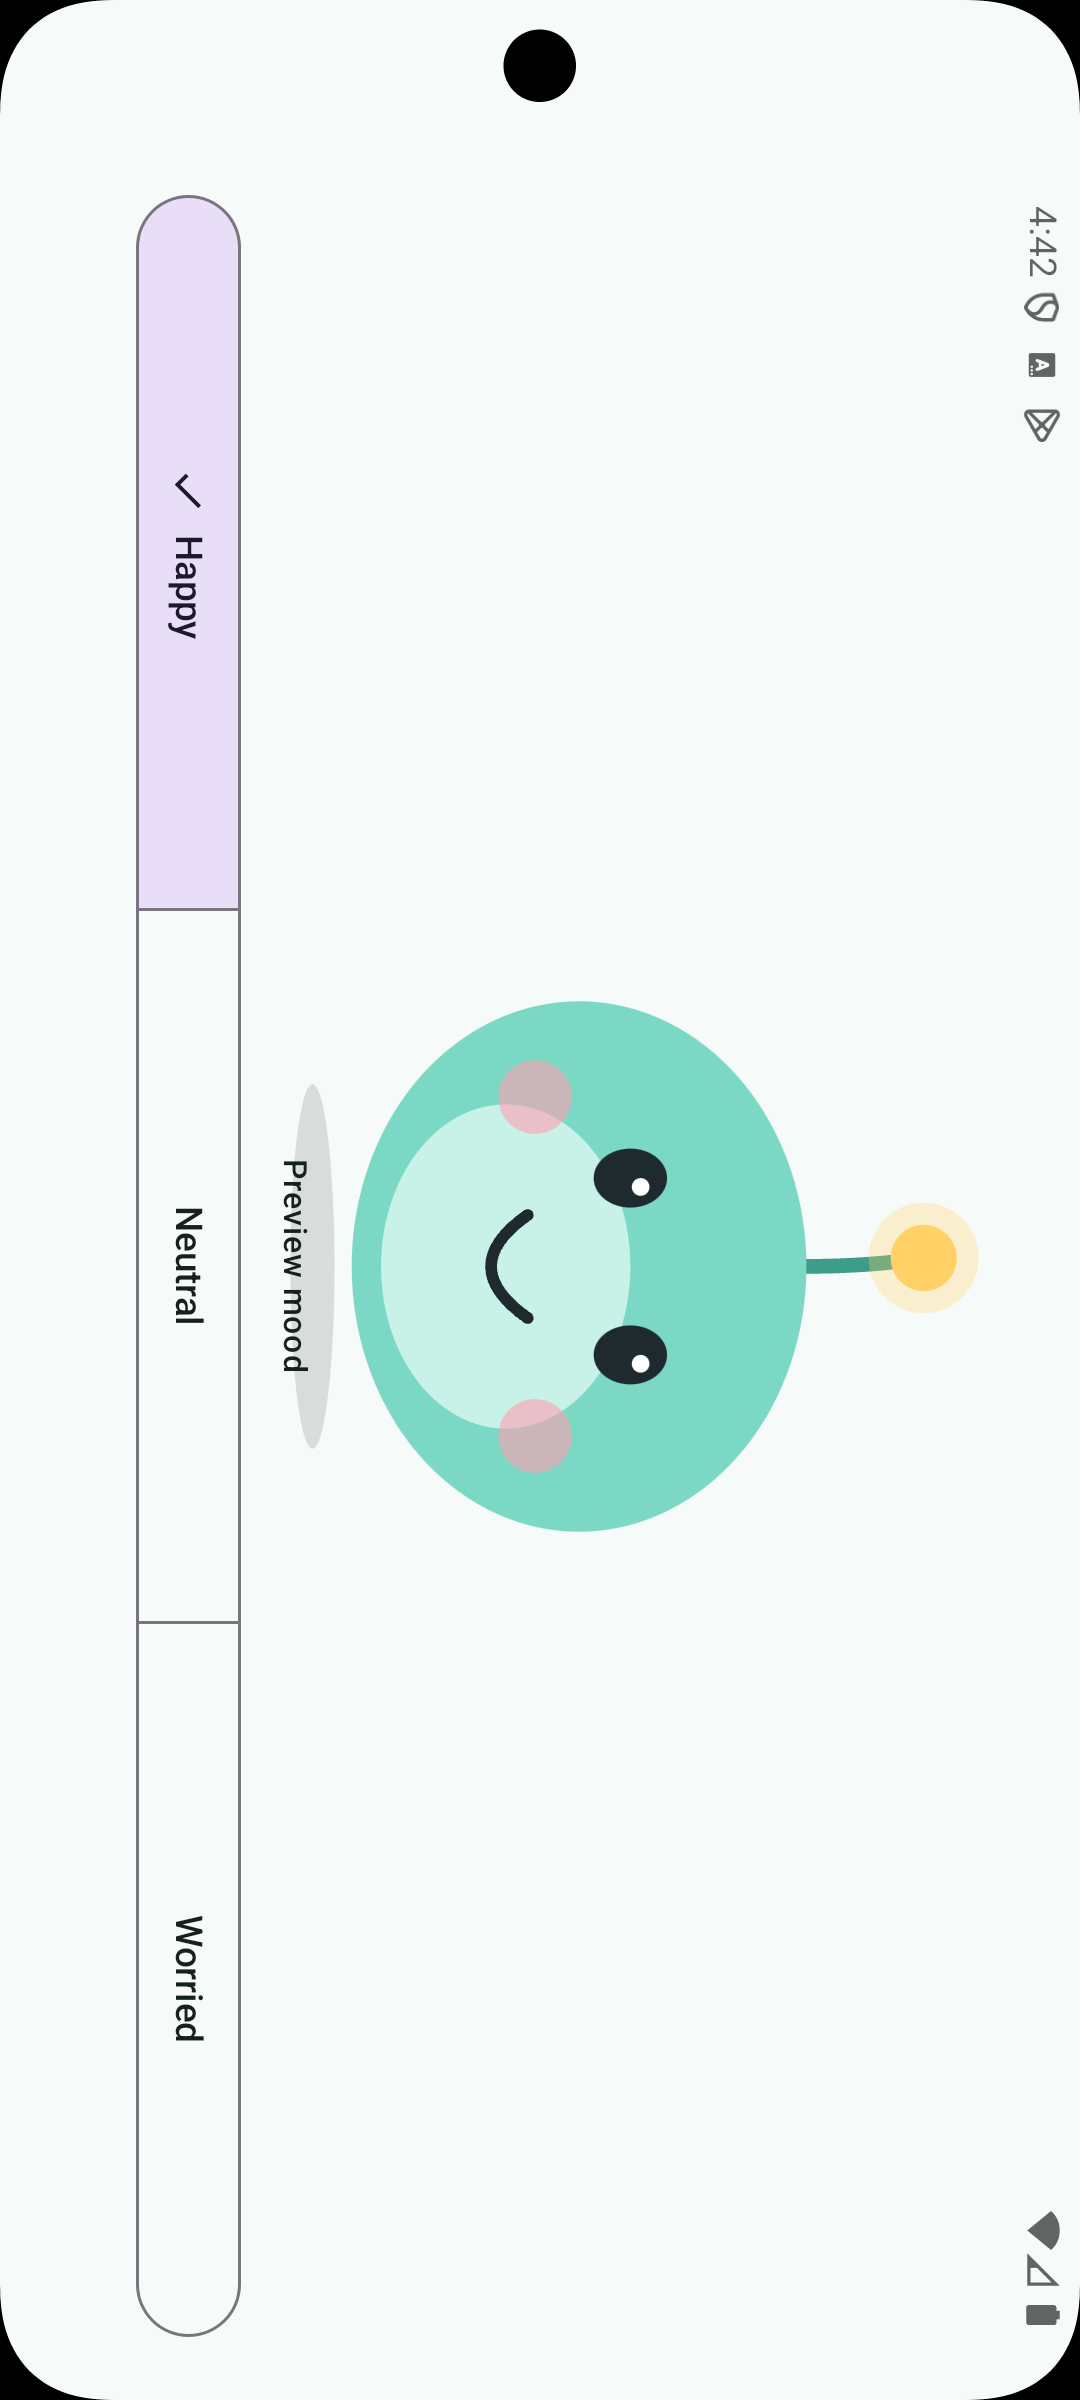
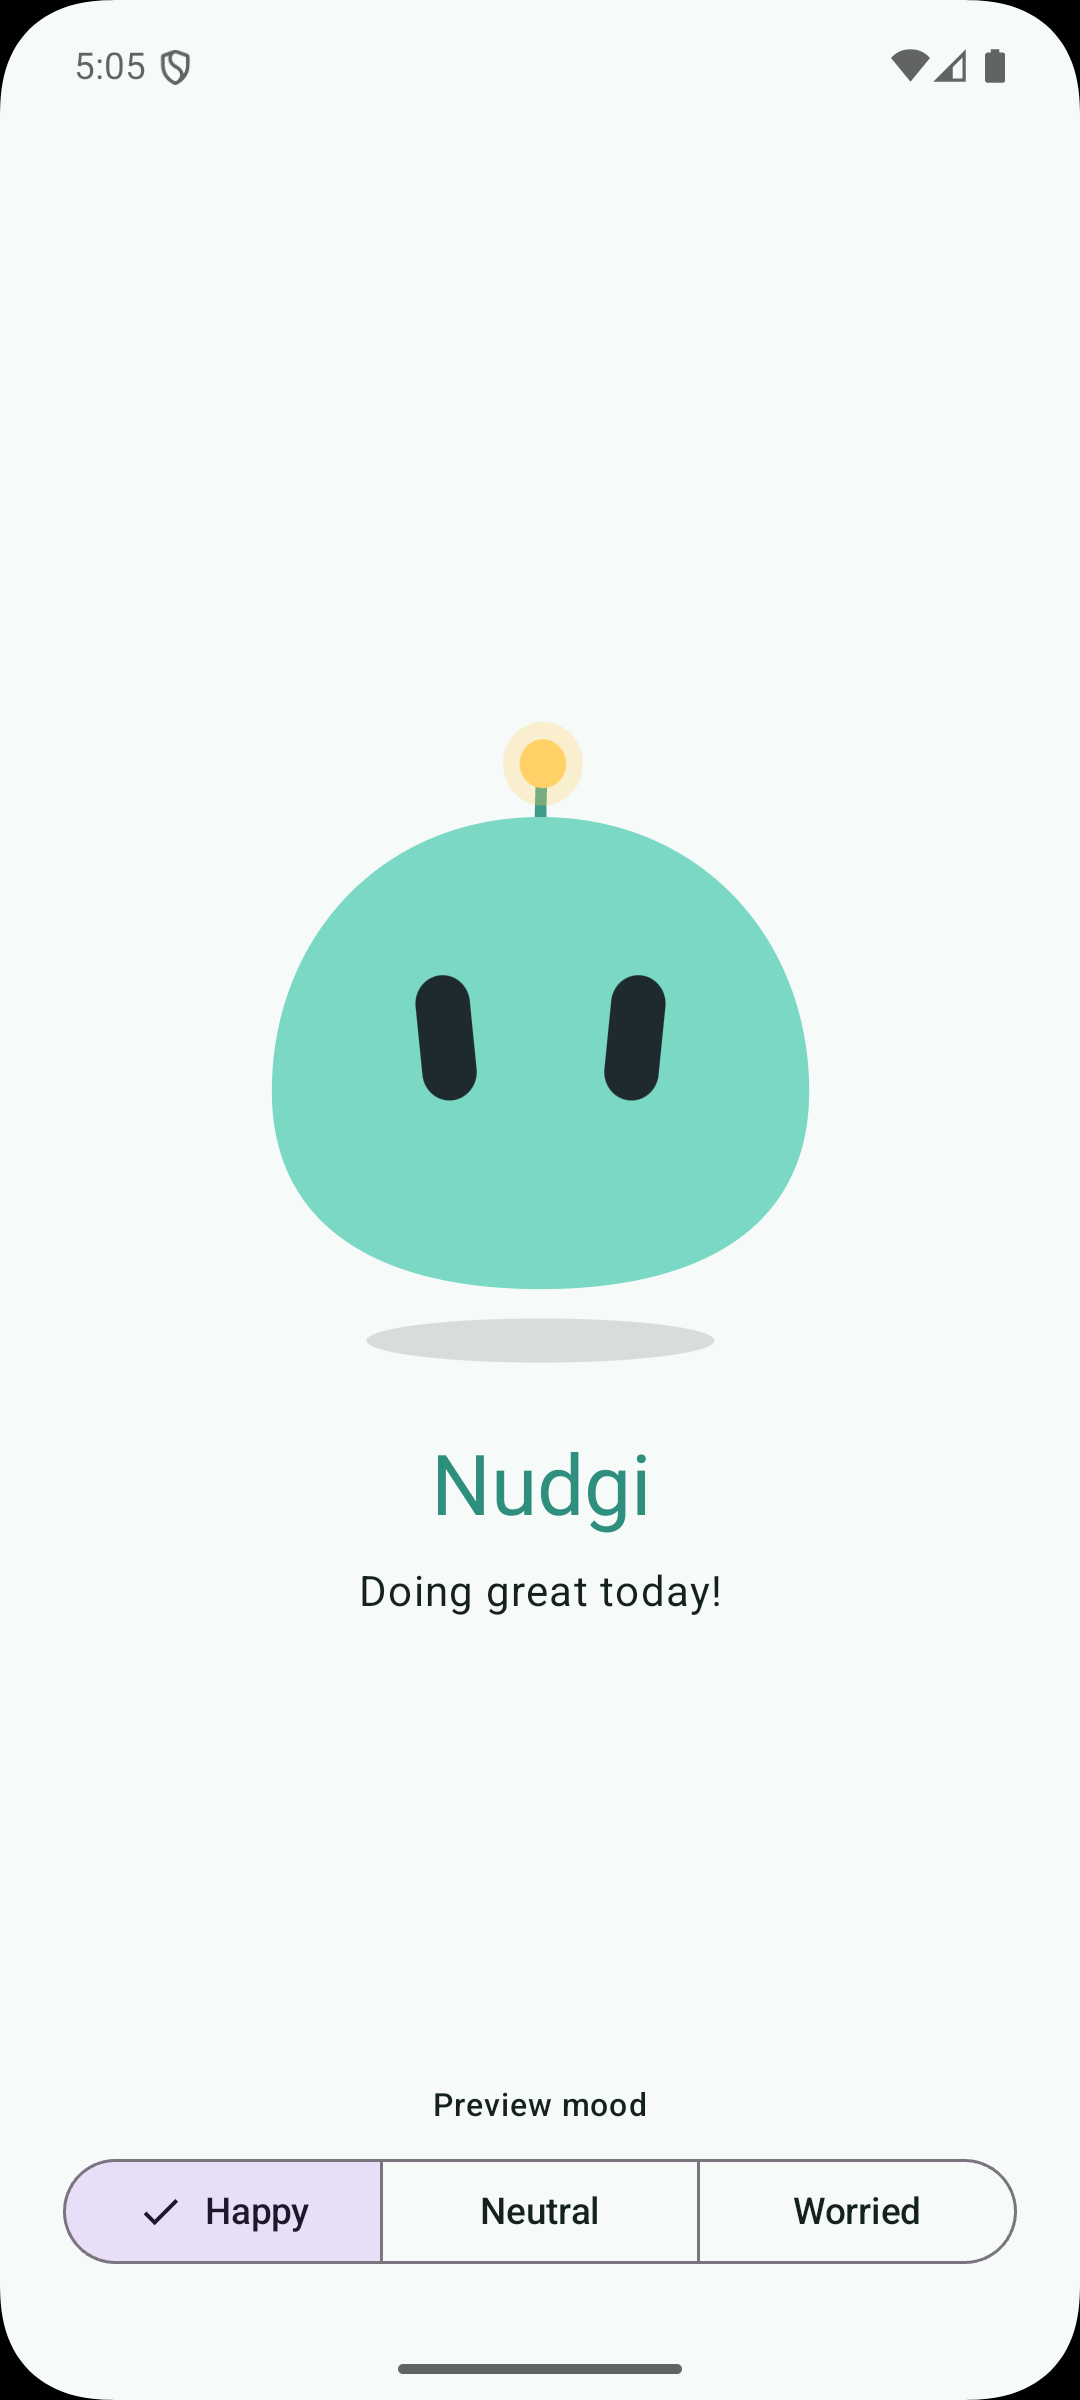
docs: describe the minimalist mascot and refresh the screenshot

diff --git a/docs/decisions/0002-mascot-drawn-with-compose-primitives.md b/docs/decisions/0002-mascot-drawn-with-compose-primitives.md
@@ -8,12 +8,18 @@ or drawing directly with Compose.
 
 ## Decision
 
-Draw Nudgi in code with `Canvas`, `Path` and Compose animation APIs (`core:mascot`). A mood maps to continuous facial
-parameters (`MascotFace`) that are animated with springs, plus an infinite idle transition for breathing and blinking.
+Draw Nudgi in code with `Canvas`, `Path` and Compose animation APIs (`core:mascot`). A mood maps to continuous look
+parameters (`MascotFace`) that are animated with springs, plus an infinite idle transition for breathing and blinking
+at random intervals.
+
+The look is deliberately minimal: a flat single-color blob, two pill-shaped eyes and a tiny antenna, with no mouth.
+Expressions come from the eyes (size, tilt, height) and a light body posture (stretch and lean). The direction is
+inspired by the avatars of Bible Strong Avatar Lab, which is AGPL-3.0: only the general idea was borrowed, and Nudgi is
+redrawn from scratch. No code or asset from that project may be copied into this MIT-licensed repository.
 
 ## Consequences
 
-- No asset pipeline and no extra dependency; the whole mascot is a few hundred lines.
+- No asset pipeline and no extra dependency; the whole mascot is a couple hundred lines.
 - Expressions blend smoothly instead of swapping between pre-made frames.
 - Glance widgets and notifications cannot host a Compose `Canvas`. When those surfaces arrive, render the same drawing
   to a bitmap per mood instead of duplicating it.

diff --git a/CLAUDE.md b/CLAUDE.md
@@ -75,8 +75,9 @@ CI (`.github/workflows/ci.yml`) runs spotlessCheck, lintDebug, testDebugUnitTest
 
 ## Mascot
 
-Drawn in code with Compose primitives (`docs/decisions/0002`). A `MascotMood` maps to continuous `MascotFace`
-parameters that are spring-animated. Glance widgets cannot host a Compose `Canvas`, so widgets need per-mood bitmaps
+Drawn in code with Compose primitives (`docs/decisions/0002`): flat blob, pill-shaped eyes, tiny antenna, no mouth. A
+`MascotMood` maps to continuous `MascotFace` parameters that are spring-animated. Do not copy code or assets from AGPL
+projects that inspired the style. Glance widgets cannot host a Compose `Canvas`, so widgets need per-mood bitmaps
 rendered from the same drawing.
 
 ## Roadmap
